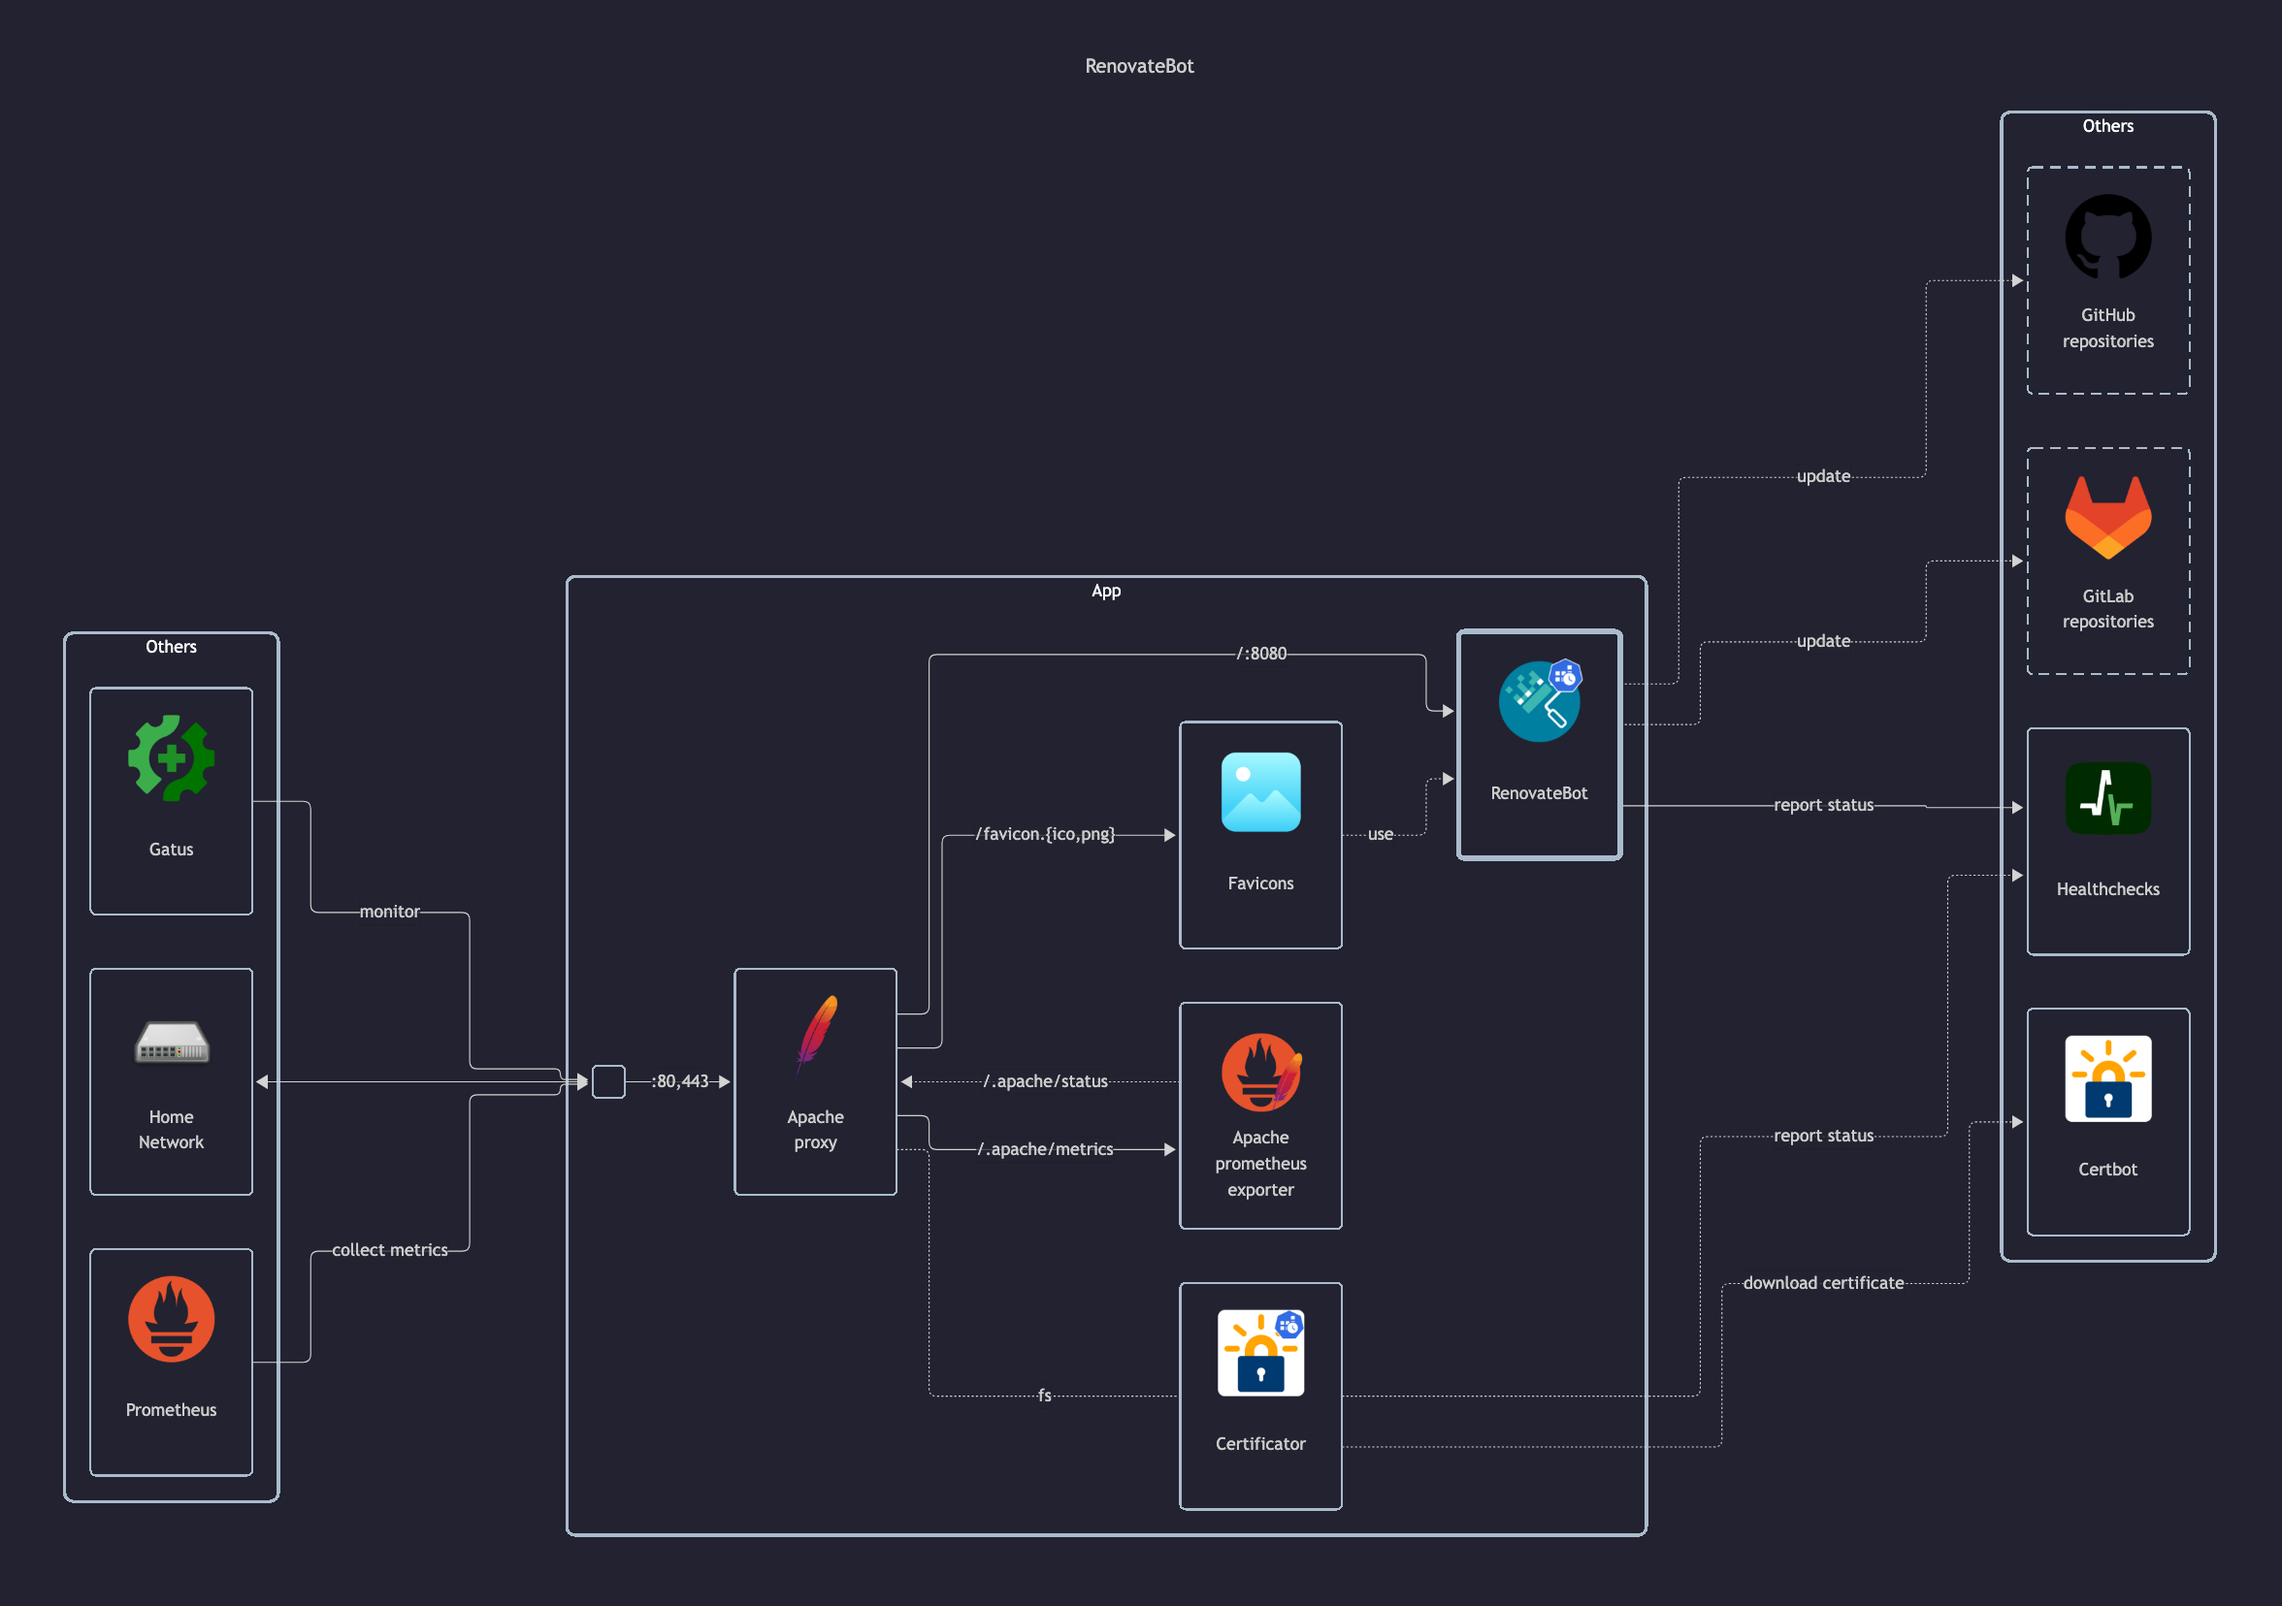
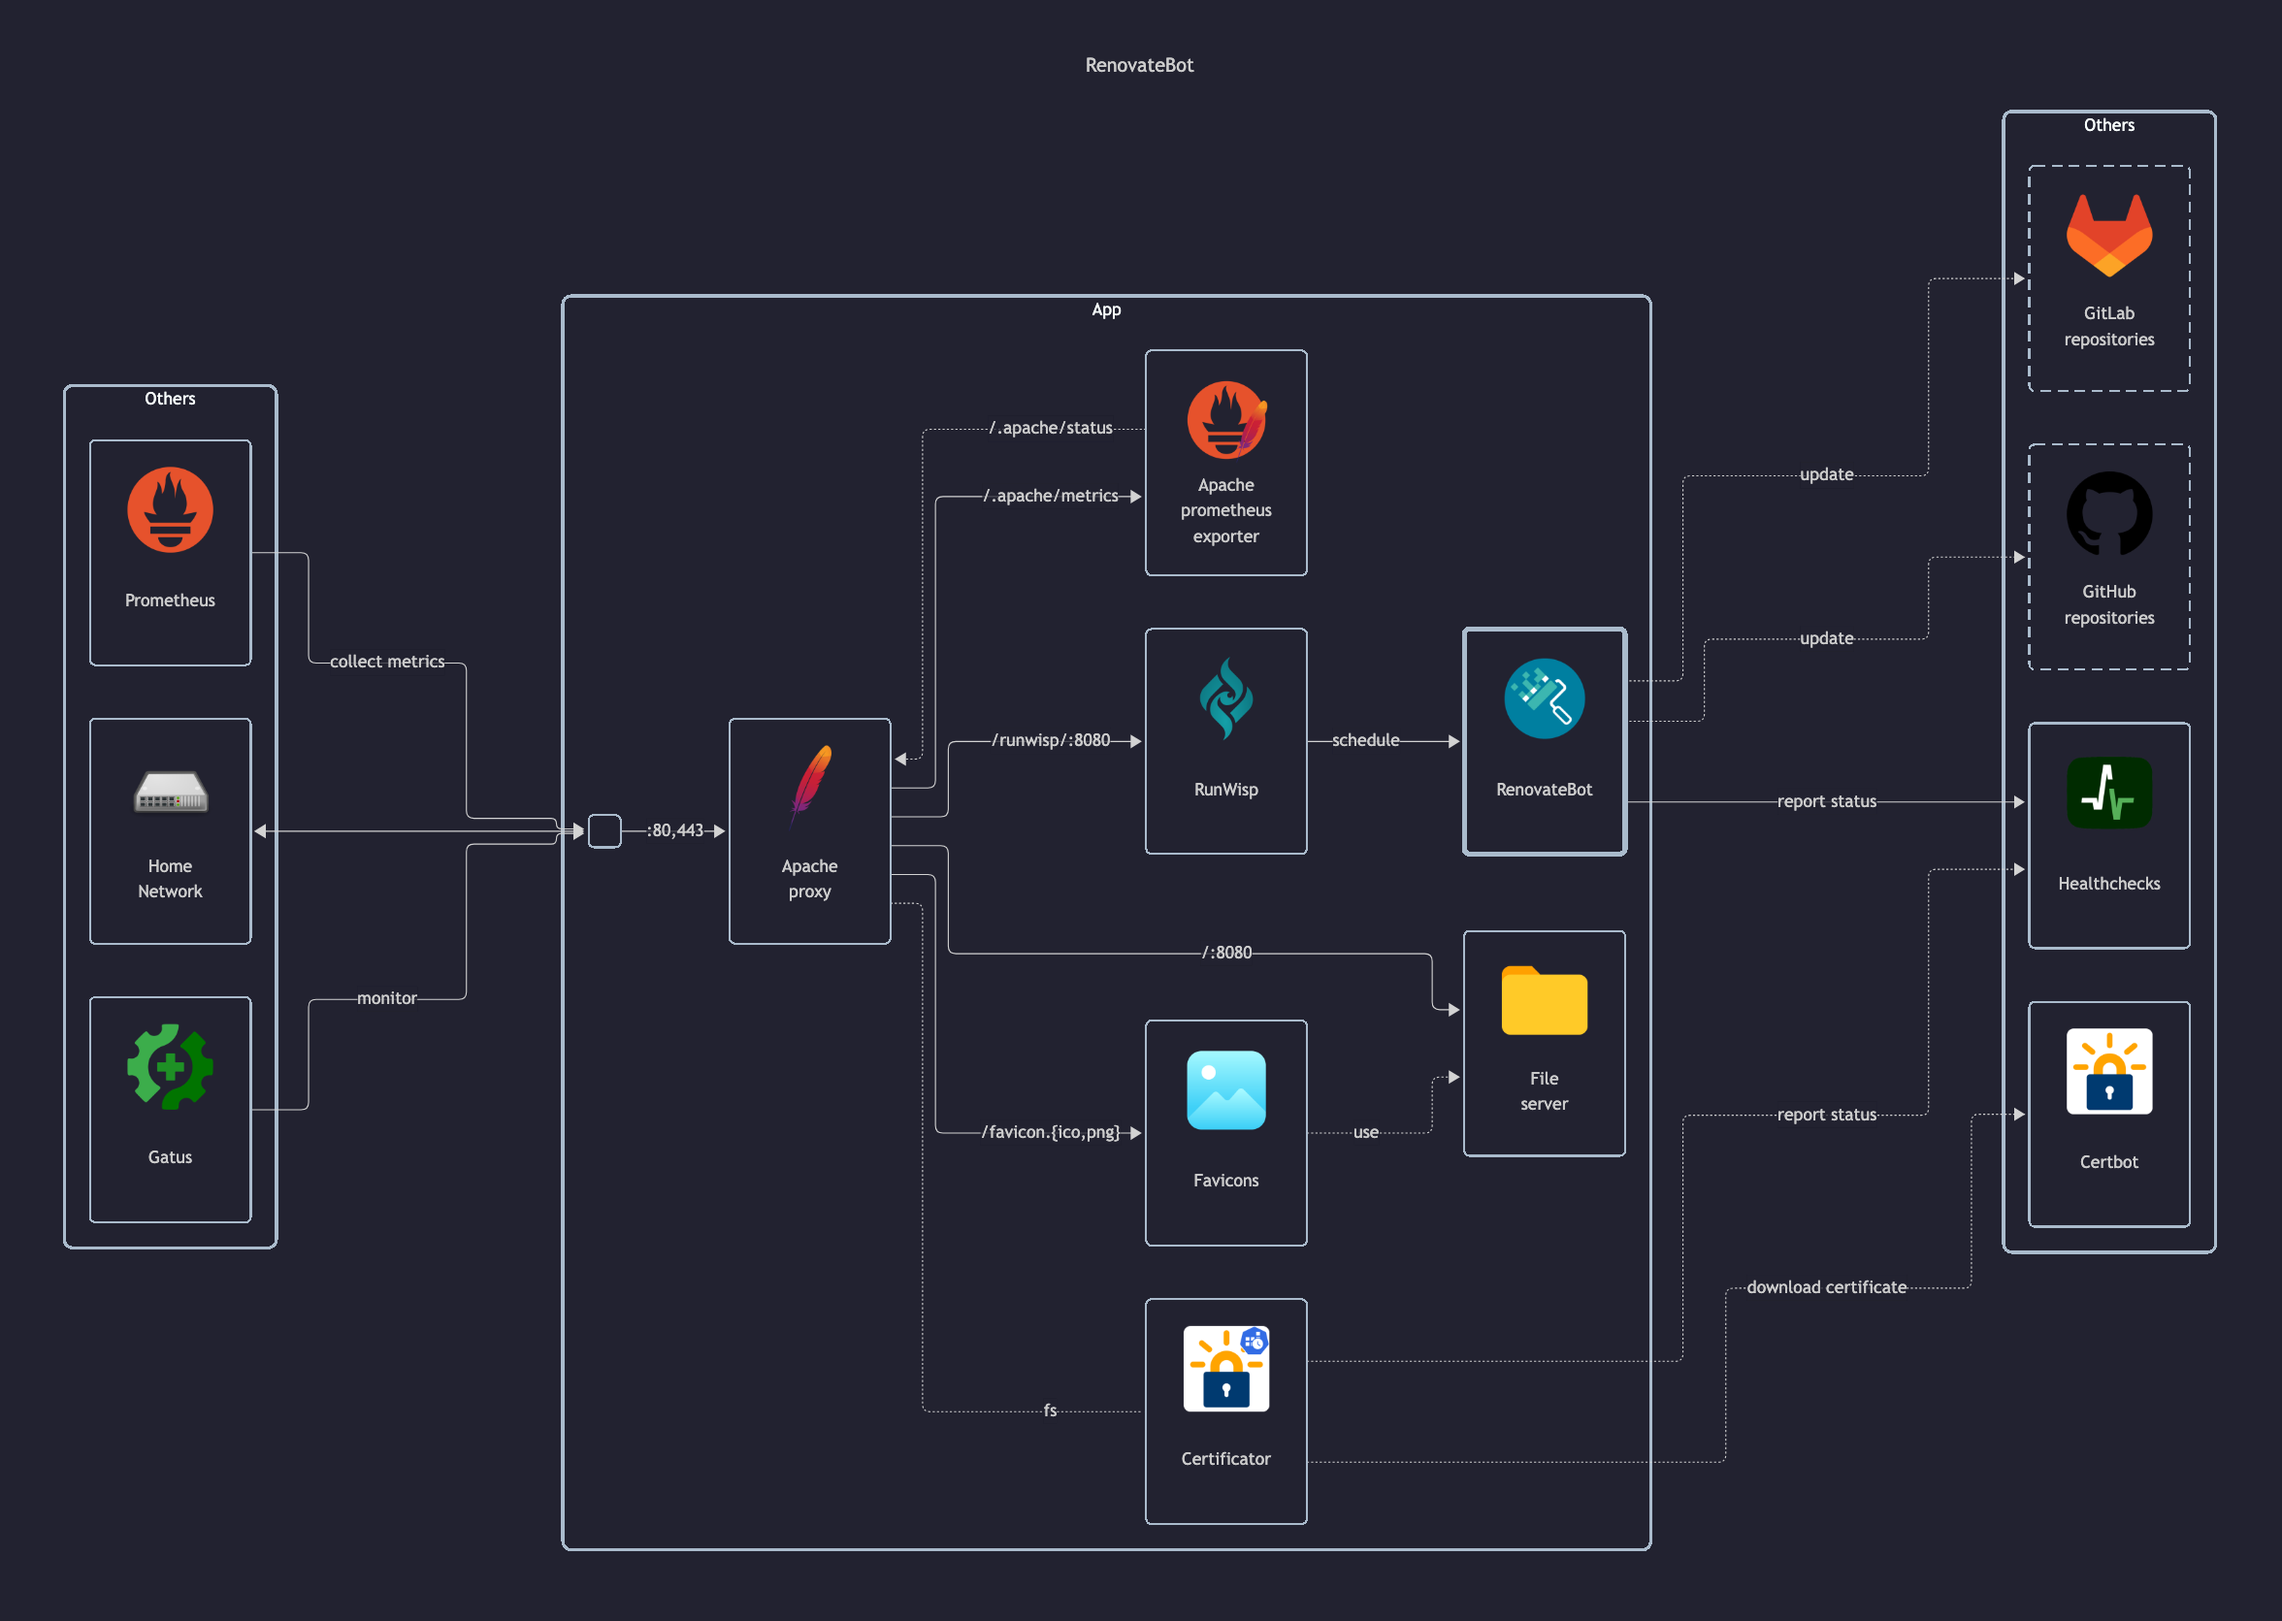
docs: update renovatebot diagram with runwisp

diff --git a/icons/README.md b/icons/README.md
@@ -32,9 +32,10 @@ The Icons are obtained from following locations:
     - Raspberry Pi: `https://iconduck.com/icons/14184/raspberry-pi` (server down)
     - RenovateBot: <https://docs.renovatebot.com>
     - Reportportal: <https://reportportal.io>
+    - RunWisp: <https://github.com/runwisp>
     - Smtp4dev: <https://github.com/rnwood/smtp4dev>
-    - SSL Certificate: <https://www.flaticon.com/free-icon/ssl-certificate_6472048>
     - Squid: <https://github.com/squid-cache>
+    - SSL Certificate: <https://www.flaticon.com/free-icon/ssl-certificate_6472048>
     - Stable Diffusion: <https://custom.typingmind.com/tools/model-icons/stable-diffusion>
     - TV (old): <https://www.flaticon.com/free-icon/television_550486>
     - UPC: <https://www.upc.sk>
